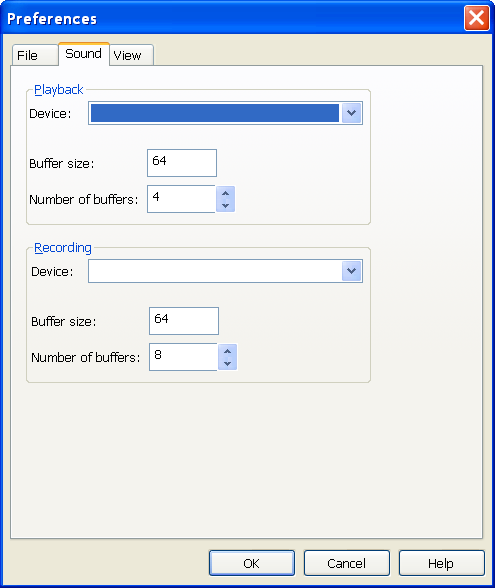
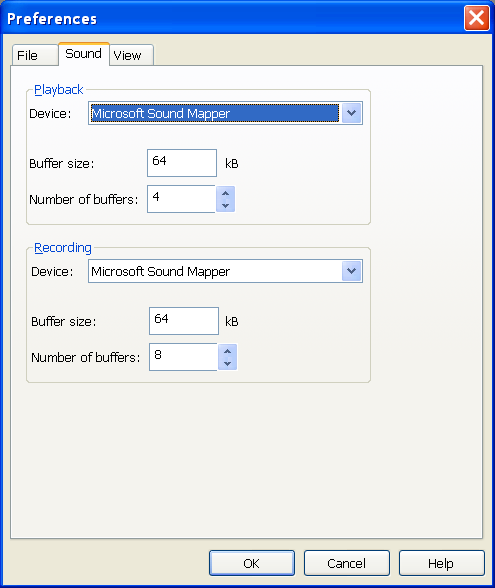
Changed files
Add kB label to buffer size selection.
Do Playback device selection in the preferences.

diff --git a/hlp/html/Tools/tools_preferences.htm b/hlp/html/Tools/tools_preferences.htm
@@ -75,11 +75,16 @@ such files are opened:</p>
 <p><img border="0" src="../../images/PreferencesSoundDialog.png"></p>
 <p>Playback group:</p>
 <p><b>Device</b> drop-down box selects an audio output device to use for 
-playback. If <b>&lt;default&gt;</b> is selected, a device selected in the system 
+playback. If &quot;<b>Microsoft Sound Mapper</b>&quot; is selected, a device selected in the system 
 &quot;Sounds audio devices&quot; control panel applet will be used.</p>
-<p>&quot;<b>Buffer size</b>&quot; and &quot;<b>Number of buffers</b>&quot; select depth of buffering 
-for playback. Some low-end systems may require more buffers for steady audio 
+<p>&quot;<b>Buffer size</b>&quot; and &quot;<b>Number of buffers</b>&quot; select depth of buffering. Some low-end systems may require more buffers for steady audio 
 playback.</p>
+<p>Recoprding group:</p>
+<p><b>Device</b> drop-down box selects an audio output device to use for 
+recording. If &quot;<b>Microsoft Sound Mapper</b>&quot; is selected, a device selected in the system 
+&quot;Sounds audio devices&quot; control panel applet will be used.</p>
+<p>&quot;<b>Buffer size</b>&quot; and &quot;<b>Number of buffers</b>&quot; select depth of buffering. Some low-end systems may require more buffers for steady audio 
+recording.</p>
 <p><b>View</b> page:</p>
 <p>
 <img border="0" src="../../images/PreferencesViewDialog.png"></p>
